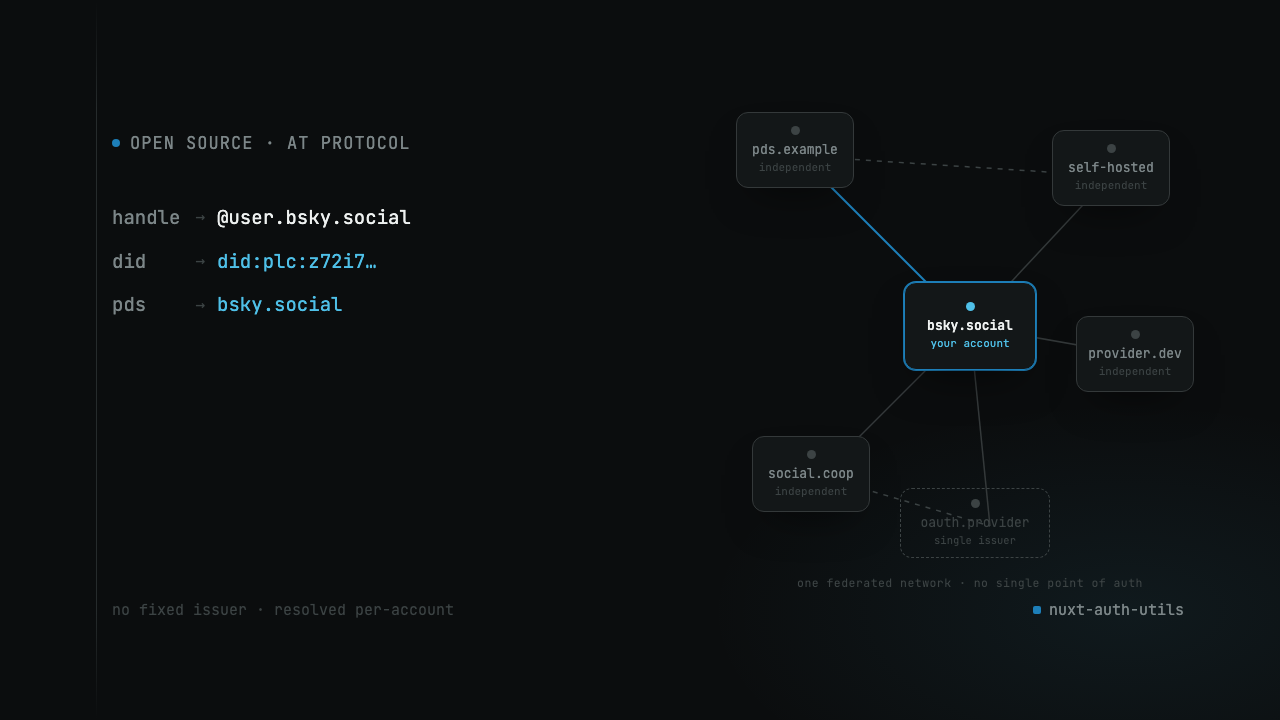
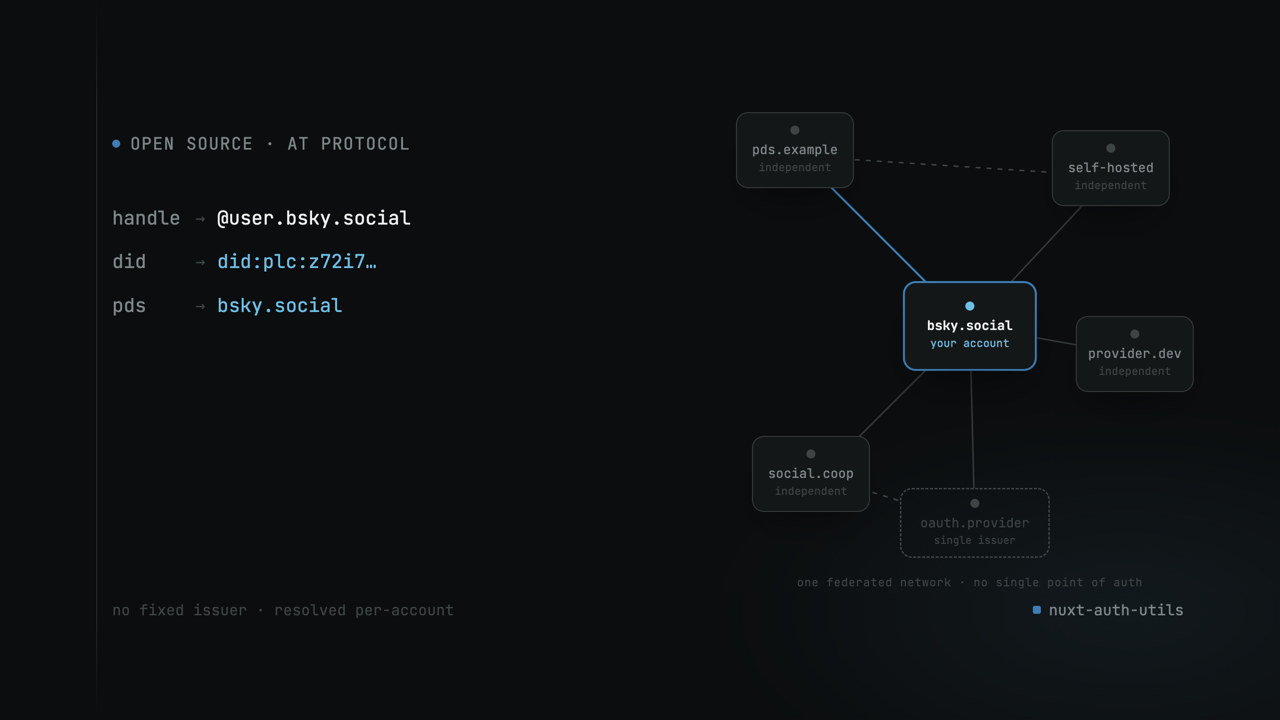
content(bluesky): mention mastodon similar system and update cover

diff --git a/content/posts/nuxt-auth-utils-bluesky-atproto.md b/content/posts/nuxt-auth-utils-bluesky-atproto.md
@@ -48,6 +48,34 @@ followers, and no single entity controls the whole network the way Twitter/X con
 That's the part that actually broke OAuth's assumptions and is why this PR ended up being so much
 more than "add a login button."
 
+Mastodon is the other name that comes up in the same breath as decentralized social, and it's
+worth being precise about the comparison instead of waving at it, because the two aren't
+decentralized in the same way. Mastodon's federation is real and in daily use: thousands of
+independently run servers with their own moderation rules, genuinely talking to each other,
+sometimes genuinely refusing to. AT Proto's is, for the most part, still theoretical. As of early
+2026 something like 99% of AT Proto accounts live on Bluesky PBC's own infrastructure, and most
+of what's left is spam. Legitimate independent PDS operators are counted in the tens of
+thousands, not millions. Bluesky talks about "credible exit" and portable identity as core to
+the design, and structurally it is, but almost nobody has actually exited yet.
+
+So why did Bluesky pull ahead of a network that's more decentralized in practice? Mostly UX and
+timing, not architecture. Mastodon makes you pick a server before you understand why that
+choice matters, which is a hard wall to put in front of someone who just wants to leave Twitter.
+Bluesky put a single, familiar, Twitter-shaped app in front of people at the exact moment the
+Twitter/X exodus needed somewhere to land, and asked nothing else of them up front. Looking like
+Twitter won more users than being architecturally different from Twitter did.
+
+Which raises the real question: if almost nobody self-hosts a PDS, why does any of this matter?
+Because portability isn't a feature you use day to day, it's insurance. Nobody wants to migrate
+PDS the way nobody wants to restore from a backup, right up until the day the company running
+their identity gets acquired, changes its moderation policy, or shuts down. The value isn't in
+the migrating, it's in the fact that the option exists at all, which changes the leverage a
+platform has over its users even when nobody's exercising it. And for this post specifically,
+that's not just a values statement: it's the direct reason the OAuth flow had to be built the
+way it is. "No fixed issuer" isn't an abstract decentralization talking point here, it's the
+literal consequence of Bluesky taking that portability seriously enough to build for it, and
+it's why the rest of this PR looks nothing like the fifty-line providers that came before it.
+
 ## The problem OAuth doesn't have an answer for
 
 Every OAuth provider `nuxt-auth-utils` already supported - GitHub, GitLab, Spotify, Google - has
